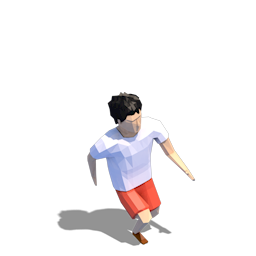
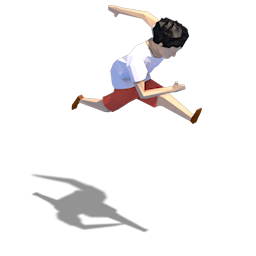
Player sprites now changes according to the player's physical state

Changed region(s): [[0.125, 0.0, 0.8125, 0.9688]]

diff --git a/Courir/Courir/GameScene.swift b/Courir/Courir/GameScene.swift
@@ -77,9 +77,26 @@ class GameScene: SKScene {
             countdownNode.updateCountdownTime(currentTime)
         } else if hasGameStarted {
             logicEngine.update()
+            updatePlayerTextures()
         }
     }
 
+    private func updatePlayerTextures() {
+        for player in gameState.players {
+            switch player.physicalState {
+            case let .Running(startTimeStep):
+                players[player.playerNumber]?.texture = playerRunningFrames[(logicEngine.timeStep - startTimeStep) % numRunFrames]
+            case let .Invulnerable(startTimeStep):
+                players[player.playerNumber]?.texture = playerRunningFrames[(logicEngine.timeStep - startTimeStep) % numRunFrames]
+            case let .Jumping(startTimeStep):
+                players[player.playerNumber]?.texture = playerJumpingFrames[(logicEngine.timeStep - startTimeStep) % numJumpFrames]
+            case let .Ducking(startTimeStep):
+                players[player.playerNumber]?.texture = playerDuckingFrames[(logicEngine.timeStep - startTimeStep) % numDuckFrames]
+            case .Stationary:
+                players[player.playerNumber]?.texture = playerStationaryFrames.first
+            }
+        }
+    }
     // MARK: Initialisers
     
     private func initLogicEngine() {
@@ -91,16 +108,16 @@ class GameScene: SKScene {
     }
     
     private func initTextures() {
-        func populateFrames(atlas: SKTextureAtlas, inout frames: [SKTexture]) {
-            for textureName in atlas.textureNames {
-                frames.append(atlas.textureNamed(textureName))
+        func populateFrames(atlas: SKTextureAtlas, inout frames: [SKTexture], textureBaseName: String) {
+            for i in 0..<atlas.textureNames.count {
+                frames.append(atlas.textureNamed("\(textureBaseName)\(i)"))
             }
         }
         
-        populateFrames(playerRunningAtlas, frames: &playerRunningFrames)
-        populateFrames(playerJumpingAtlas, frames: &playerJumpingFrames)
-        populateFrames(playerDuckingAtlas, frames: &playerDuckingFrames)
-        populateFrames(playerStationaryAtlas, frames: &playerStationaryFrames)
+        populateFrames(playerRunningAtlas, frames: &playerRunningFrames, textureBaseName: "running")
+        populateFrames(playerJumpingAtlas, frames: &playerJumpingFrames, textureBaseName: "jumping")
+        populateFrames(playerDuckingAtlas, frames: &playerDuckingFrames, textureBaseName: "ducking")
+        populateFrames(playerStationaryAtlas, frames: &playerStationaryFrames, textureBaseName: "stationary")
     }
 
     private func initObstacles() {

diff --git a/Courir/Courir/Constants.swift b/Courir/Courir/Constants.swift
@@ -35,6 +35,9 @@ let jumpDuration = Double(jumpTimeSteps) / Double(framerate)
 let duckDuration = Double(jumpTimeSteps) / Double(framerate)
 
 // Textures
+let numRunFrames = 30
+let numJumpFrames = 21
+let numDuckFrames = 15
 let playerRunningAtlas = SKTextureAtlas(named: "PlayerRunning")
 let playerJumpingAtlas = SKTextureAtlas(named: "PlayerJumping")
 let playerDuckingAtlas = SKTextureAtlas(named: "PlayerDucking")

diff --git a/Courir/Courir/GameScene+Observer.swift b/Courir/Courir/GameScene+Observer.swift
@@ -61,7 +61,7 @@ extension GameScene: Observer {
                     removeGestureRecognizers()
                 }
                 node.texture = playerJumpingFrames.first
-            case .Running, .Invulnerable(_):
+            case .Running(_), .Invulnerable(_):
                 if player.playerNumber == gameState.myPlayer.playerNumber {
                     addGestureRecognizers()
                 }

diff --git a/Courir/Courir/LogicEngine.swift b/Courir/Courir/LogicEngine.swift
@@ -18,7 +18,7 @@ class LogicEngine {
     
     private let gameNetworkPortal = GameNetworkPortal._instance
     
-    private var timeStep = 0
+    private(set) var timeStep = 0
     private var lastObstacleTimeStep: Int?
     private var eventQueue = [(event: GameEvent, playerNumber: Int, timeStep: Int,
         otherData: AnyObject?)]()
